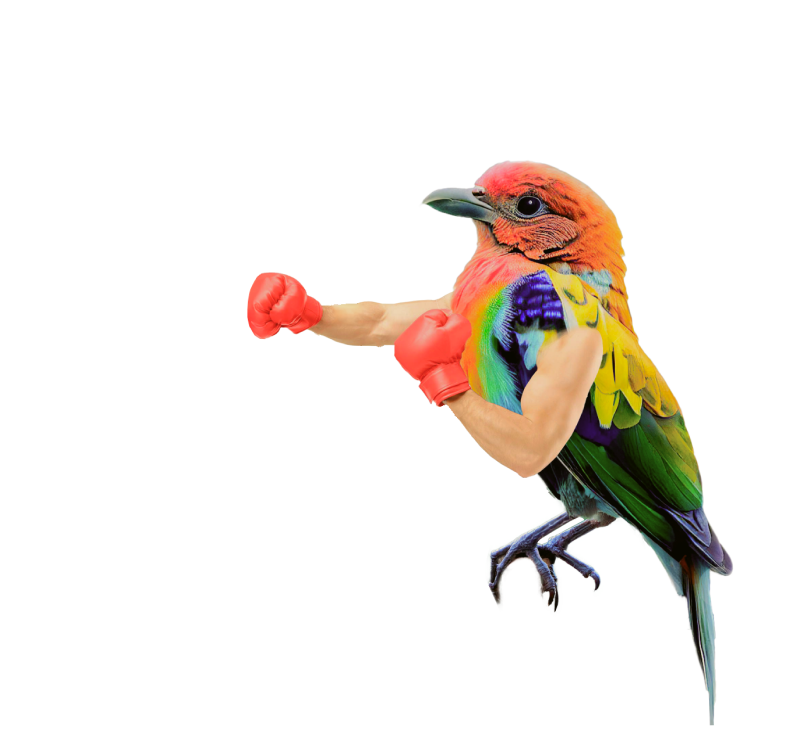
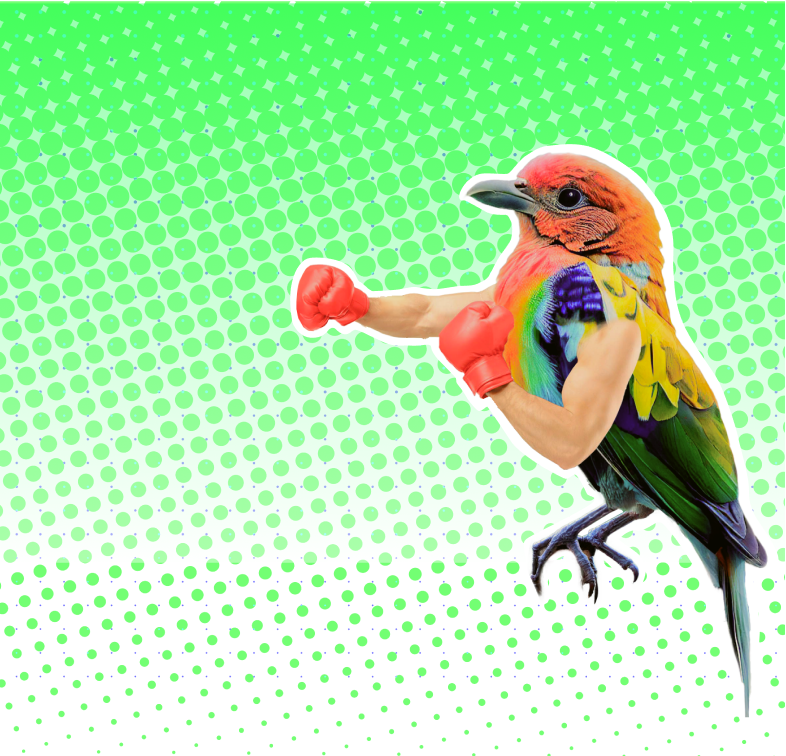
Aggiornamento automatico

diff --git a/output.html b/output.html
@@ -31,7 +31,9 @@
 	width: 100%;
 	}
 	.section-2 { 
-	background: url('https://raw.githubusercontent.com/MarcoToon/output/refs/heads/main/green-background.png') no-repeat center/cover;
+	background-size: cover;
+        background-position: center;
+        background-repeat: no-repeat;
 	height: 460px;
 	position: relative;
 	}
@@ -181,8 +183,8 @@
 	</div>
 	<!-- Sezione 2 -->
 	<div class="section section-2">
-	<div class="wrap">
 	<img id="uccello1-image" src="" alt="Bird" class="bird">
+	<div class="wrap">
 	<img src="section-2-1.png" alt="Section Text" class="text-image">
 	<img id="personalita1-image" src="" alt="Section Text" class="tag1">
 	<img src="section-2-2.png" alt="Section Text" class="text-image">
@@ -246,7 +248,7 @@
 	rettangolo1.style.width = `${percentuale1}%`;
         rettangolo2.style.width = `${percentuale2}%`;
         rettangolo3.style.width = `${percentuale3}%`;
-	if (uccello1) document.getElementById('uccello1-image').src = `https://raw.githubusercontent.com/MarcoToon/output/refs/heads/main/${uccello1}bird.png`;
+	section-2.style.backgroundImage = `https://raw.githubusercontent.com/MarcoToon/output/refs/heads/main/${uccello1}bird.png`;
         if (personalita1) document.getElementById('personalita1-image').src = `https://raw.githubusercontent.com/MarcoToon/output/refs/heads/main/${personalita1}.png`;
         if (personalita2) document.getElementById('personalita2-image').src = `https://raw.githubusercontent.com/MarcoToon/output/refs/heads/main/${personalita2}.png`;
 	</script>
